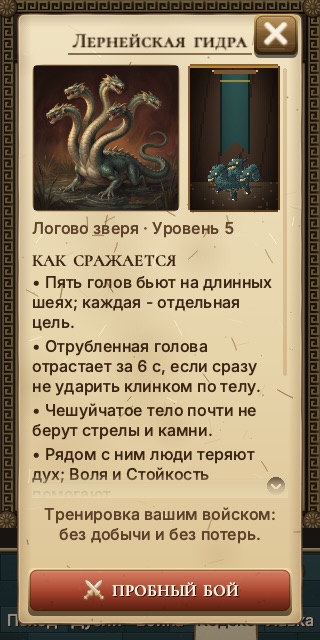
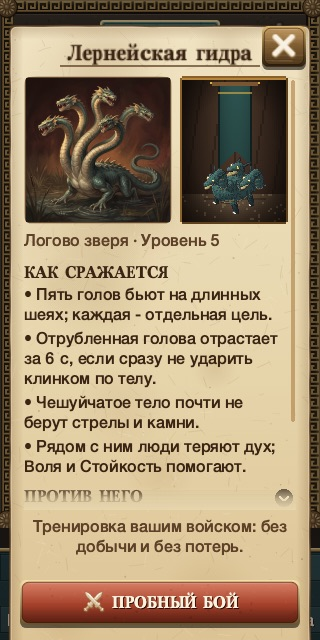
fix(codex): beast sheet docked full width (title floor at 320x568), doors wait for the plates, long ru words cut in rows

diff --git a/src/ui/beastInfo.ts b/src/ui/beastInfo.ts
@@ -39,10 +39,10 @@ export const plateUrl = (enc: EncounterId): string => `ui/beasts/plate_${enc}.jp
 /** Plates already asked for (a file that failed to load is not asked for again). */
 const askedPlates = new Set<string>();
 
-/** Load the shipped plates of `encs` not asked for yet; `done` runs once they arrive (not at all when none was missing). */
-export function ensurePlates(scene: Phaser.Scene, encs: Iterable<EncounterId>, done: () => void): void {
+/** Load the shipped plates of `encs` not asked for yet; `done` runs once they arrive. False (and no `done`) when none was missing. */
+export function ensurePlates(scene: Phaser.Scene, encs: Iterable<EncounterId>, done: () => void): boolean {
   const missing = [...new Set(encs)].filter((e) => SHIPPED_PLATES.has(e) && !askedPlates.has(e) && !hasRaster(scene, plateKey(e)));
-  if (!missing.length) return;
+  if (!missing.length) return false;
   for (const e of missing) {
     askedPlates.add(e);
     scene.load.image(plateKey(e), plateUrl(e));
@@ -51,6 +51,7 @@ export function ensurePlates(scene: Phaser.Scene, encs: Iterable<EncounterId>, d
     if (scene.sys.isActive()) done();
   });
   scene.load.start();
+  return true;
 }
 
 /** The beast's painted plate if it is loaded, else null. */
@@ -260,7 +261,8 @@ export function openBeastInfo(scene: UiScene, enc: EncounterId, o: BeastInfoOpts
  */
 export function openBeastSheet(scene: UiScene, enc: EncounterId, o: BeastInfoOpts = {}): { close: () => void } {
   const { VW, VH } = scene.m;
-  const w = VW - 16;
+  // docked: the full width (a long name keeps its title size beside the X at 320)
+  const w = VW - 8;
   const actions: MButtonOpts[] = o.action
     ? [{ label: o.action.label, icon: o.action.icon ?? 'swords', variant: o.action.disabled ? 'disabled' : 'primary', disabledReason: o.action.disabled, onClick: () => o.action!.run(), id: 'beast.sheet.action' }]
     : [];
@@ -279,7 +281,7 @@ export function openBeastSheet(scene: UiScene, enc: EncounterId, o: BeastInfoOpt
   pa.destroy();
   probe.destroy();
   const h = Math.min(VH - 12, SHEET_TITLE_H + contentH + 6 + capH + sheetActionsH(actions, w) + 8);
-  const s = openParchmentSheet(scene, { title: encounterName(enc), w, h, actions, id: 'beast.sheet', onClose: o.onClose });
+  const s = openParchmentSheet(scene, { title: encounterName(enc), w, h, actions, dock: 'bottom', id: 'beast.sheet', onClose: o.onClose });
   const b = s.body;
   if (capLines.length) s.c.add(mtext(scene, b.x + b.w / 2, b.y + b.h - capH + 2, capLines.join('\n'), capFont, { size: capSize, align: 0.5 }).setCenterAlign());
   const area = new ScrollArea(scene, s.c, b.x, b.y, b.w, b.h - capH - 2, scene.m.S);

diff --git a/src/scenes/CodexScene.ts b/src/scenes/CodexScene.ts
@@ -62,9 +62,16 @@ export class CodexScene extends BaseScene {
     this.shell = addHubShell(this, { title: t('tab.codex'), active: 'codex' });
     this.build();
     // the painted plates arrive after the first frame: rebuild the list with them
-    ensurePlates(this, ENCOUNTER_IDS, () => this.build());
-    if (data?.open && ENCOUNTER_IDS.includes(data.open)) this.openBeast(data.open);
-    else if (data?.doctrine && met.includes(data.doctrine)) this.openDoctrine(data.doctrine);
+    const door = () => {
+      if (data?.open && ENCOUNTER_IDS.includes(data.open)) this.openBeast(data.open);
+      else if (data?.doctrine && met.includes(data.doctrine)) this.openDoctrine(data.doctrine);
+    };
+    // a door straight to a beast's sheet waits for the plates, so its header has the painting
+    const loading = ensurePlates(this, ENCOUNTER_IDS, () => {
+      this.build();
+      door();
+    });
+    if (!loading) door();
   }
 
   /** The list of the current segment, under the switch (or the Beasts title before any doctrine is met). */
@@ -182,7 +189,8 @@ export class CodexScene extends BaseScene {
     // the hint in two lines; the full text is in the sheet
     const font: FontKey = 'pSec';
     const ls = wrapWords(o.hint, tw, (s) => mw(s, font, HINT));
-    const two = ls.length > 2 ? [ls[0], fit(ls.slice(1).join(' '), font, HINT, tw)] : ls;
+    // a single word wider than the line (ru at 320) is cut too, never drawn past the row
+    const two = (ls.length > 2 ? [ls[0], ls.slice(1).join(' ')] : ls).map((l) => fit(l, font, HINT, tw));
     const hint = mtext(this, tx, hy, two.join('\n'), font, { size: HINT });
     uiFrame(hint, r, w, RH);
     face.add(hint);

diff --git a/docs/v5/stories/CDX-01/NOTES.md b/docs/v5/stories/CDX-01/NOTES.md
@@ -25,7 +25,7 @@ Shipped after `preview.mjs` (layout exit 0 at 390, 360, 320) and reading every D
 1. **Met doctrines live in local storage** (`pixelarrow:codex.doctrines`), not the save: the Codex save flags belong to the save story (screens-modes.md open question 1) and `save.ts` is not this story's. They are noted from the last battle each time the Codex opens (a Trial teaches none); `noteDoctrine()` is exported for WLD-01's encounter row and the battle chip. Knowledge is the player's, so it is not per campaign.
 2. **No "Defeated ✓" mark**: it is marked "proposed (Director decision)" and needs a save field.
 3. **Plate beside the pixel figure** on the beast sheet: the plate says what it is, the figure how it looks in battle (a 3:1 crop of a square plate would cut the heads).
-4. **The beast sheet is centred and as tall as its content**, with the X; the caption sits fixed over the button so the rule is always next to the action.
+4. **The beast sheet is docked at the bottom, full width, and as tall as its content**, with the X: centred, "Lernaean Hydra" fell under the text floor beside the X at 320x568 in Telegram. The caption sits fixed over the button so the rule is always next to the action. A door straight to a sheet (Results, `{ open }`) waits for the plates so the header has its painting.
 5. **Book icon not wired**: its slot is the tab bar (TabBar/tabLayout, not this story's files); it stays staged.
 6. **Doctrine texts** are under `doctrine.<id>.*` so the encounter row and battle chip can reuse them; counters follow the GDD balance table (rush ← brace, hammer ← reserve to the flank or orb, swarm ← fast advance and cavalry, fury ← missiles and feint); steady's is "strike a flank before the reserve commits".
 
